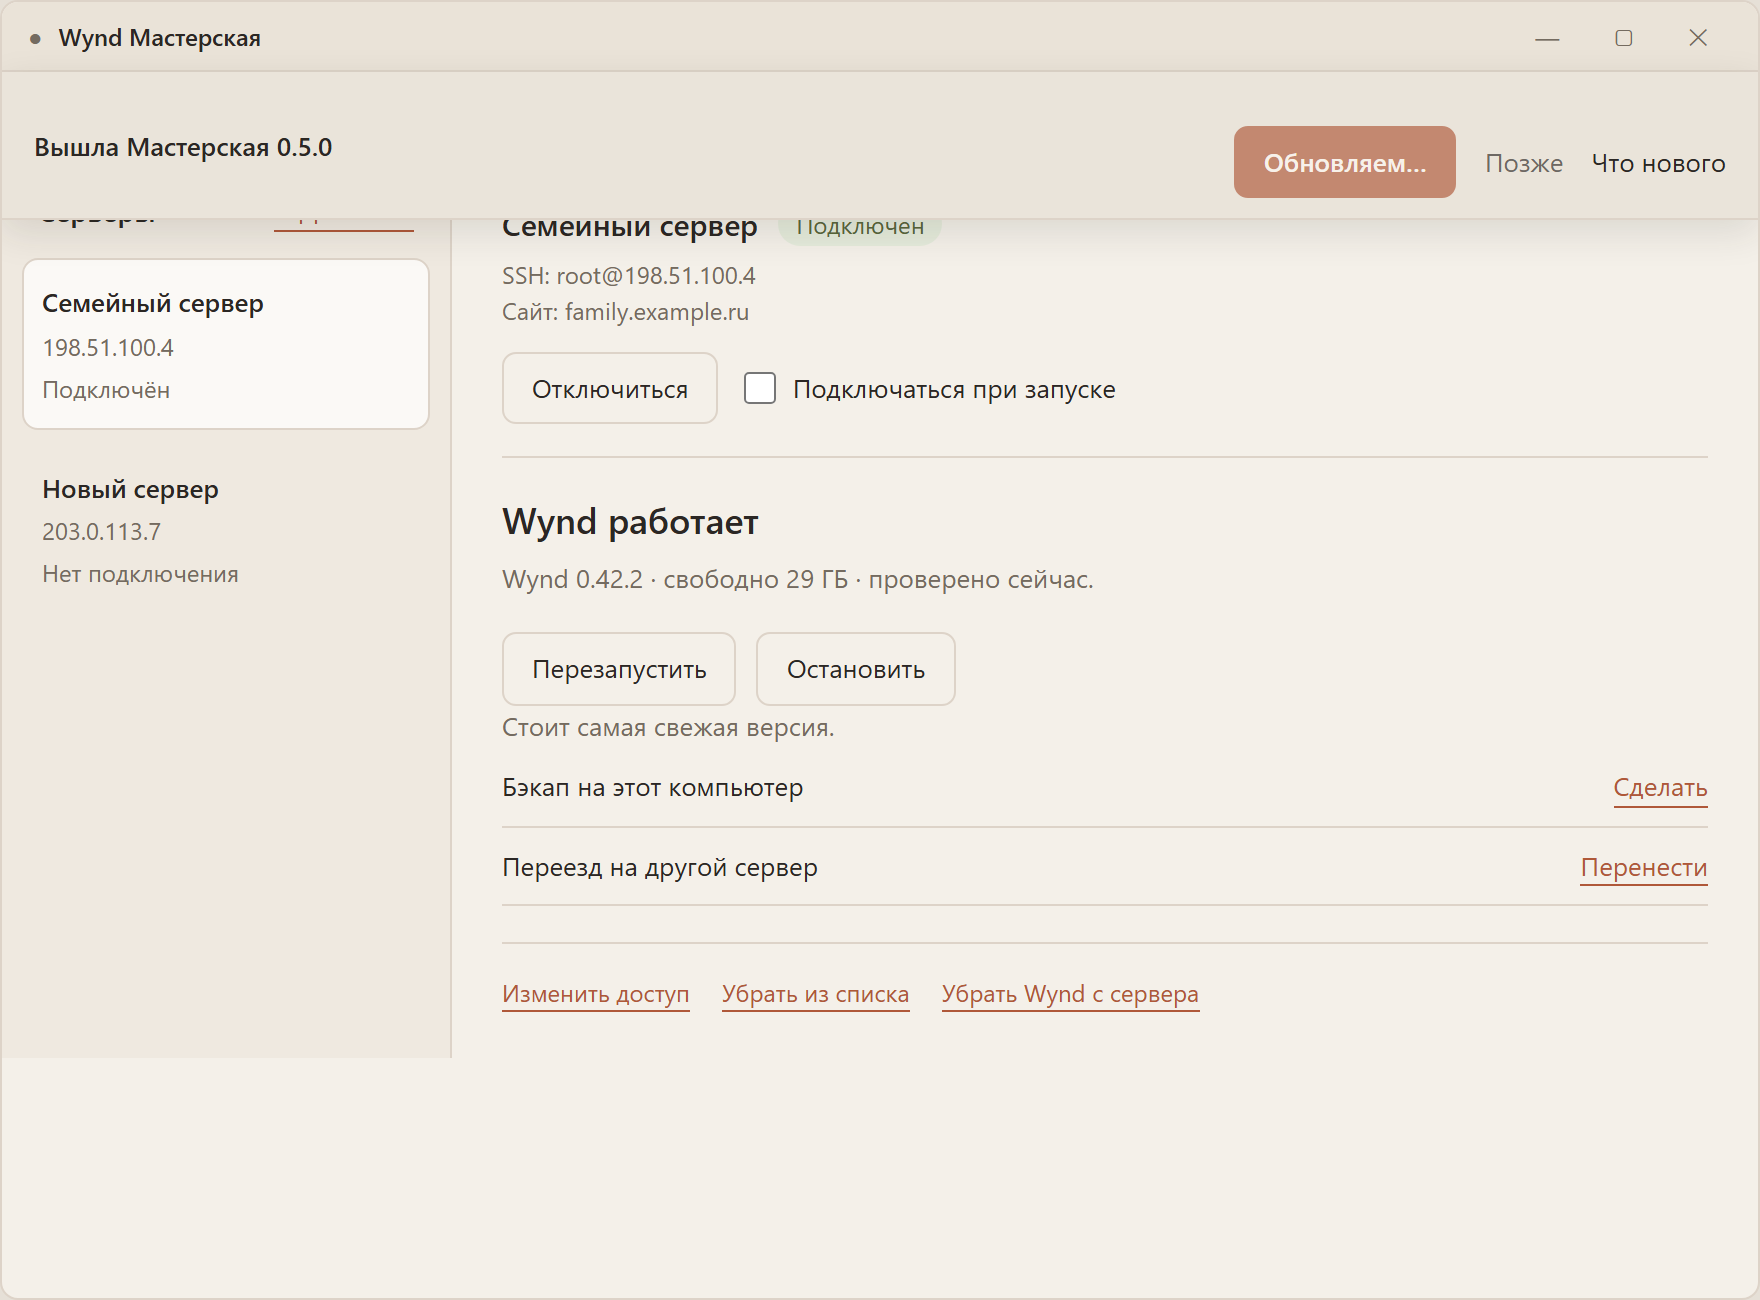
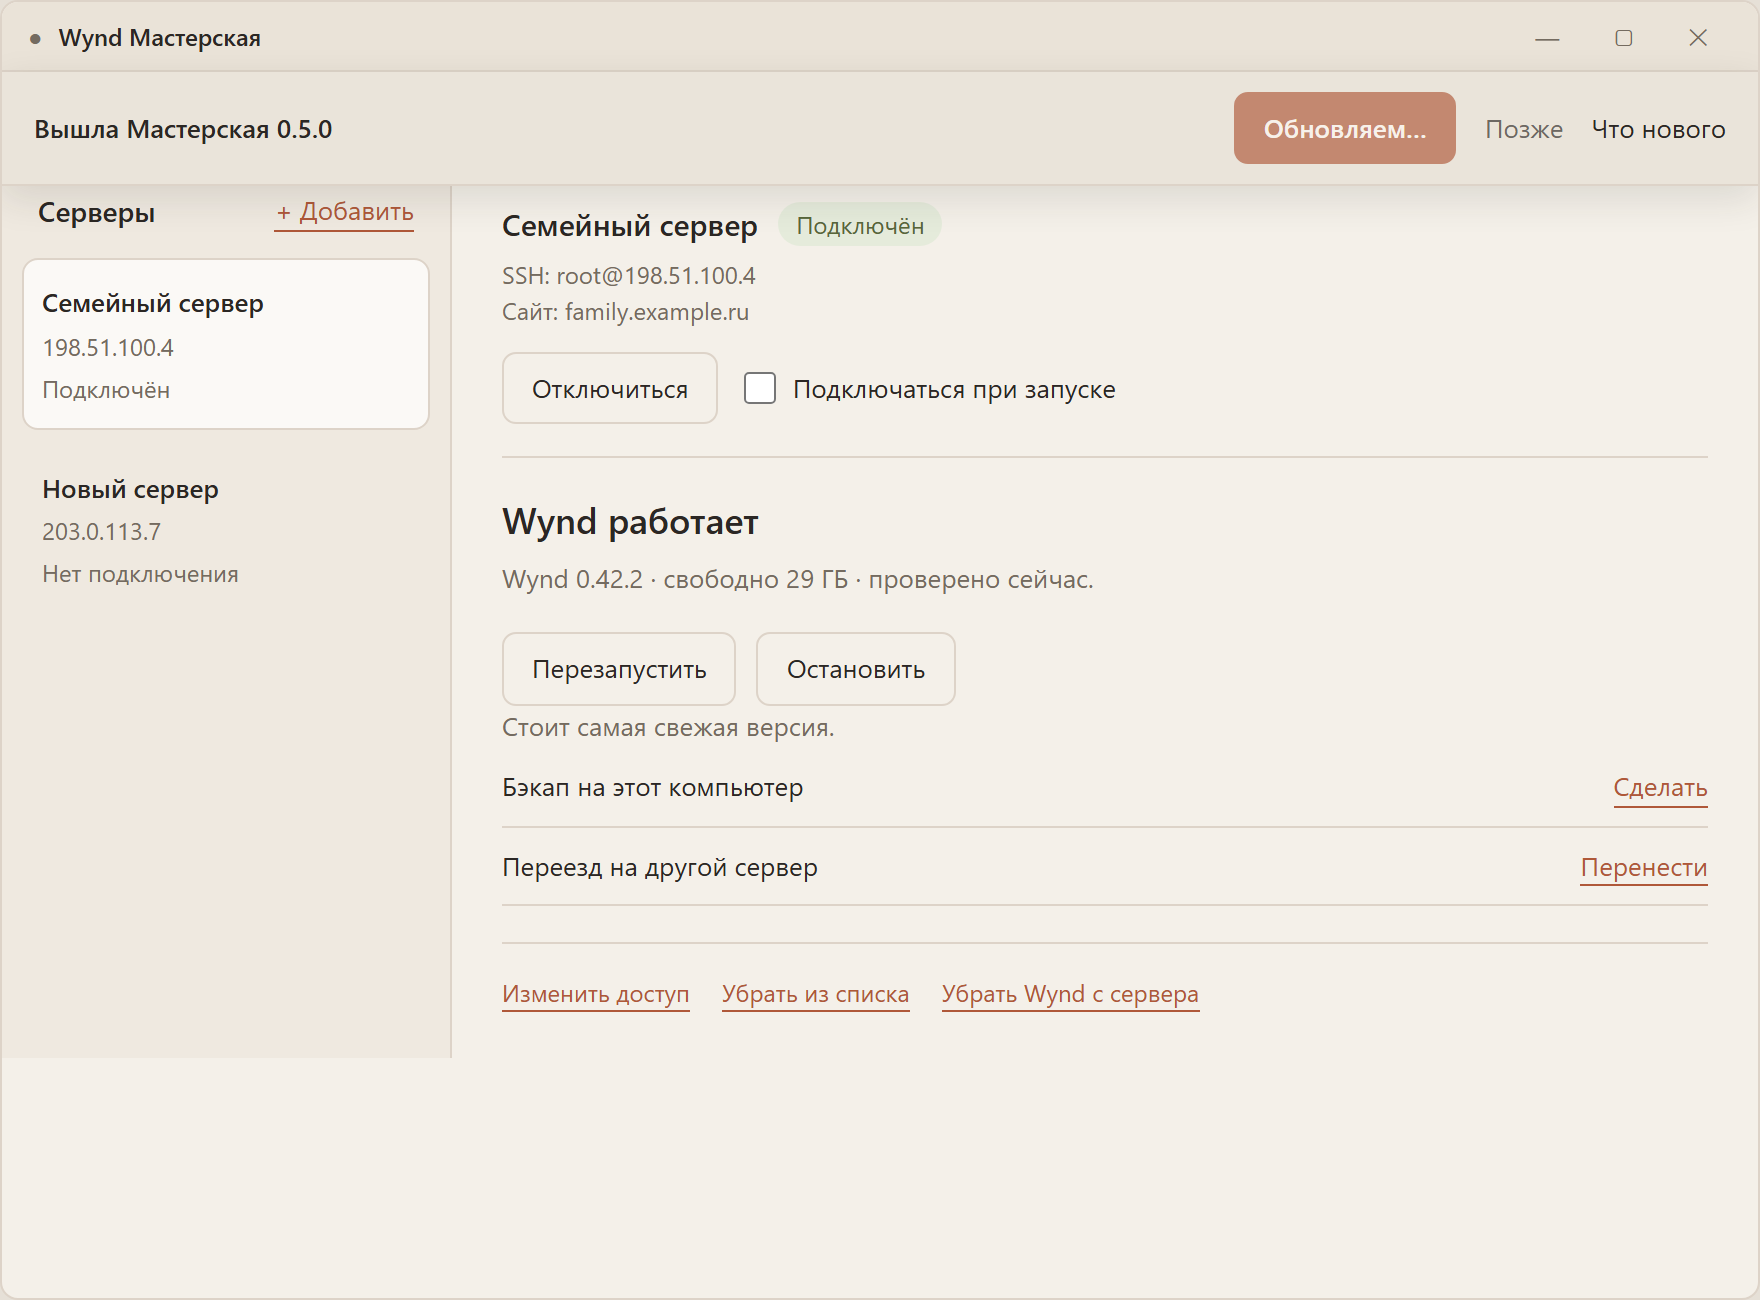
A25: высота полосы 58 px — поле .actions галереи не входит в полосу

diff --git a/docs/visual/installer.html b/docs/visual/installer.html
@@ -134,6 +134,8 @@ h2{margin:0 0 4px;font-size:17px}
 #workshop-storyboard .server-card .selfbar .head{flex:1;min-width:0;font-weight:600}
 #workshop-storyboard .server-card .selfbar .bad{color:var(--c);font-weight:400}
 #workshop-storyboard .server-card .selfbar .actions{display:flex;align-items:center;gap:14px;flex:none}
+#workshop-storyboard .server-card .selfbar .btn{margin:0}
+#workshop-storyboard .server-card .selfbar .actions{margin:0}
 #workshop-storyboard .server-card .under,#workshop-storyboard .server-card button.link{border:0;border-bottom:1px solid currentColor;color:var(--c);background:transparent;padding:0;font:inherit;text-align:left}
 #workshop-storyboard .server-card .cbx{display:flex;align-items:flex-start;gap:9px;line-height:1.45}
 #workshop-storyboard .server-card .cbx>i{flex:0 0 18px;height:18px;box-sizing:border-box;border:1px solid var(--line);border-radius:4px;background:var(--card);display:flex;align-items:center;justify-content:center;margin-top:1px}

diff --git a/docs/visual/reviews/a25-selfupdate-bar-2026-11-13/README.md b/docs/visual/reviews/a25-selfupdate-bar-2026-11-13/README.md
@@ -6,9 +6,11 @@
 
 | Файл | SHA-256 | Что видно |
 | --- | --- | --- |
[6 lines of base64/hex data omitted]
+
+Высота полосы: 58 px в покое и при установке, 60 px с строкой отказа подписи — как у Настольного (~60 px). На первых рендерах полоса была 75 px: класс `.actions` в галерее несёт поле 17 px из стилей пульта — в полосе обнулено; в приложении его нет.
 
 ## Что решают кадры (A25, решение владельца 2026-11-13 — переносим подход Настольного в Мастерскую)
 
